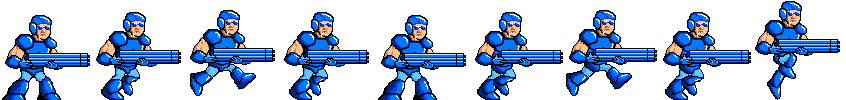
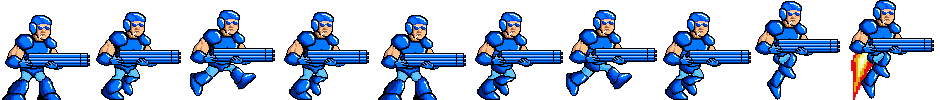
added score to game over page, fine-tuned text styling within gameplay, added jetpack to rick

diff --git a/app/assets/javascripts/game.js b/app/assets/javascripts/game.js
@@ -68,6 +68,7 @@ Rick.Game = function (game) {
   this.score = 0;
   this.scoreString;
   this.scoreText;
+  this.lastScore = 0;
 
 
   //Lives
@@ -140,17 +141,17 @@ Rick.Game.prototype = {
 
 
     // The score
-    this.scoreString = 'Score : ';
-    this.scoreText = this.game.add.text(10, 10, this.scoreString + this.score, { font: '20px "Press Start 2P"', fill: '#182450' });
+    this.scoreString = 'Score:';
+    this.scoreText = this.game.add.text(10, 10, this.scoreString + this.score, { font: '28px "Press Start 2P"', fill: '#182450' });
 
     // Lives display
     this.lives = this.game.add.group();
-    this.game.add.text(10, 450, 'Lives : ', { font: '20px "Press Start 2P"', fill: '#fff' });
+    this.game.add.text(10, 450, 'Lives:', { font: '20px "Press Start 2P"', fill: '#fff' });
 
     // The 3 lives as objects (head)
     for (var i = 0; i < 3; i++) 
     {
-        var head = this.lives.create(180 + (50 * i), 460, 'head');
+        var head = this.lives.create(160 + (50 * i), 460, 'head');
         head.anchor.setTo(0.5, 0.5);
         head.alpha = 0.4;
     }
@@ -209,6 +210,7 @@ Rick.Game.prototype = {
     } else if (this.keyboard.up.isDown && this.game.time.now > this.jumpTimeBegin && this.jumpcount === 1){
       this.player.body.velocity.y = -400;
       this.jumpcount++;
+      this.player.animations.play('doubleJump');
     }
   },
 
@@ -323,7 +325,7 @@ Rick.Game.prototype = {
     this.enemies.removeAll();
     this.music.stop();
 
-
+    this.lastScore = this.score;
     this.score = 0;
     this.nextEnemyTime = 3000;
 
@@ -348,7 +350,7 @@ Rick.Game.prototype = {
 
     this.player.animations.add('right', [0,1,2,3,4,5,6,7], 10, true);
     this.player.animations.add('jump', [8], 10, false);
-
+    this.player.animations.add('doubleJump', [9], 10, false);
   },
 
   createEnemy: function () {

diff --git a/app/assets/javascripts/gameOver.js b/app/assets/javascripts/gameOver.js
@@ -1,5 +1,9 @@
 Rick.GameOver = function (game) {
   this.text;
+  // text
+  // this.score = 0;
+  this.scoreString;
+  this.scoreText;
 };
 
 Rick.GameOver.prototype = {
@@ -11,8 +15,14 @@ Rick.GameOver.prototype = {
     //  Naturally I expect you to do something significantly better :)
 
     this.add.sprite(0, 0, 'gameOver');
-    //this.add.button(230, 410, 'rankButton', this.mainMenu, this, 0, 1);
-    this.add.button(230, 410, 'mainMenuButton', this.mainMenu, this, 0, 1);
+
+    // The score
+    this.scoreString = 'Your score is:';
+    this.scoreText = this.game.add.text(75, 200, this.scoreString +this.game.state.states.Game.lastScore, { font: '36px "Press Start 2P"', fill: '#182450' });
+
+    this.add.button(293, 260, 'rankButton', this.scoresMenu, this, 0, 1);
+    this.add.button(198, 342, 'playAgainButton', this.startGame, this, 1, 0);
+    this.add.button(232, 425, 'mainMenuButton', this.mainMenu, this, 0, 1);
 
   },
   
@@ -21,6 +31,24 @@ Rick.GameOver.prototype = {
 
     //  Do some nice funky main menu effect here
 
+  },
+
+  scoresMenu: function () {
+
+    //  And start the actual game
+    this.game.state.start('Scores');
+
+  },
+
+  startGame: function () {
+
+    // this.musicMenu.stop();
+
+    // hide stats menus
+    // $('.score_div').fadeOut( 1200 );
+
+    //  And start the actual game
+    this.game.state.start('Game');
   },
 
   mainMenu: function () {
